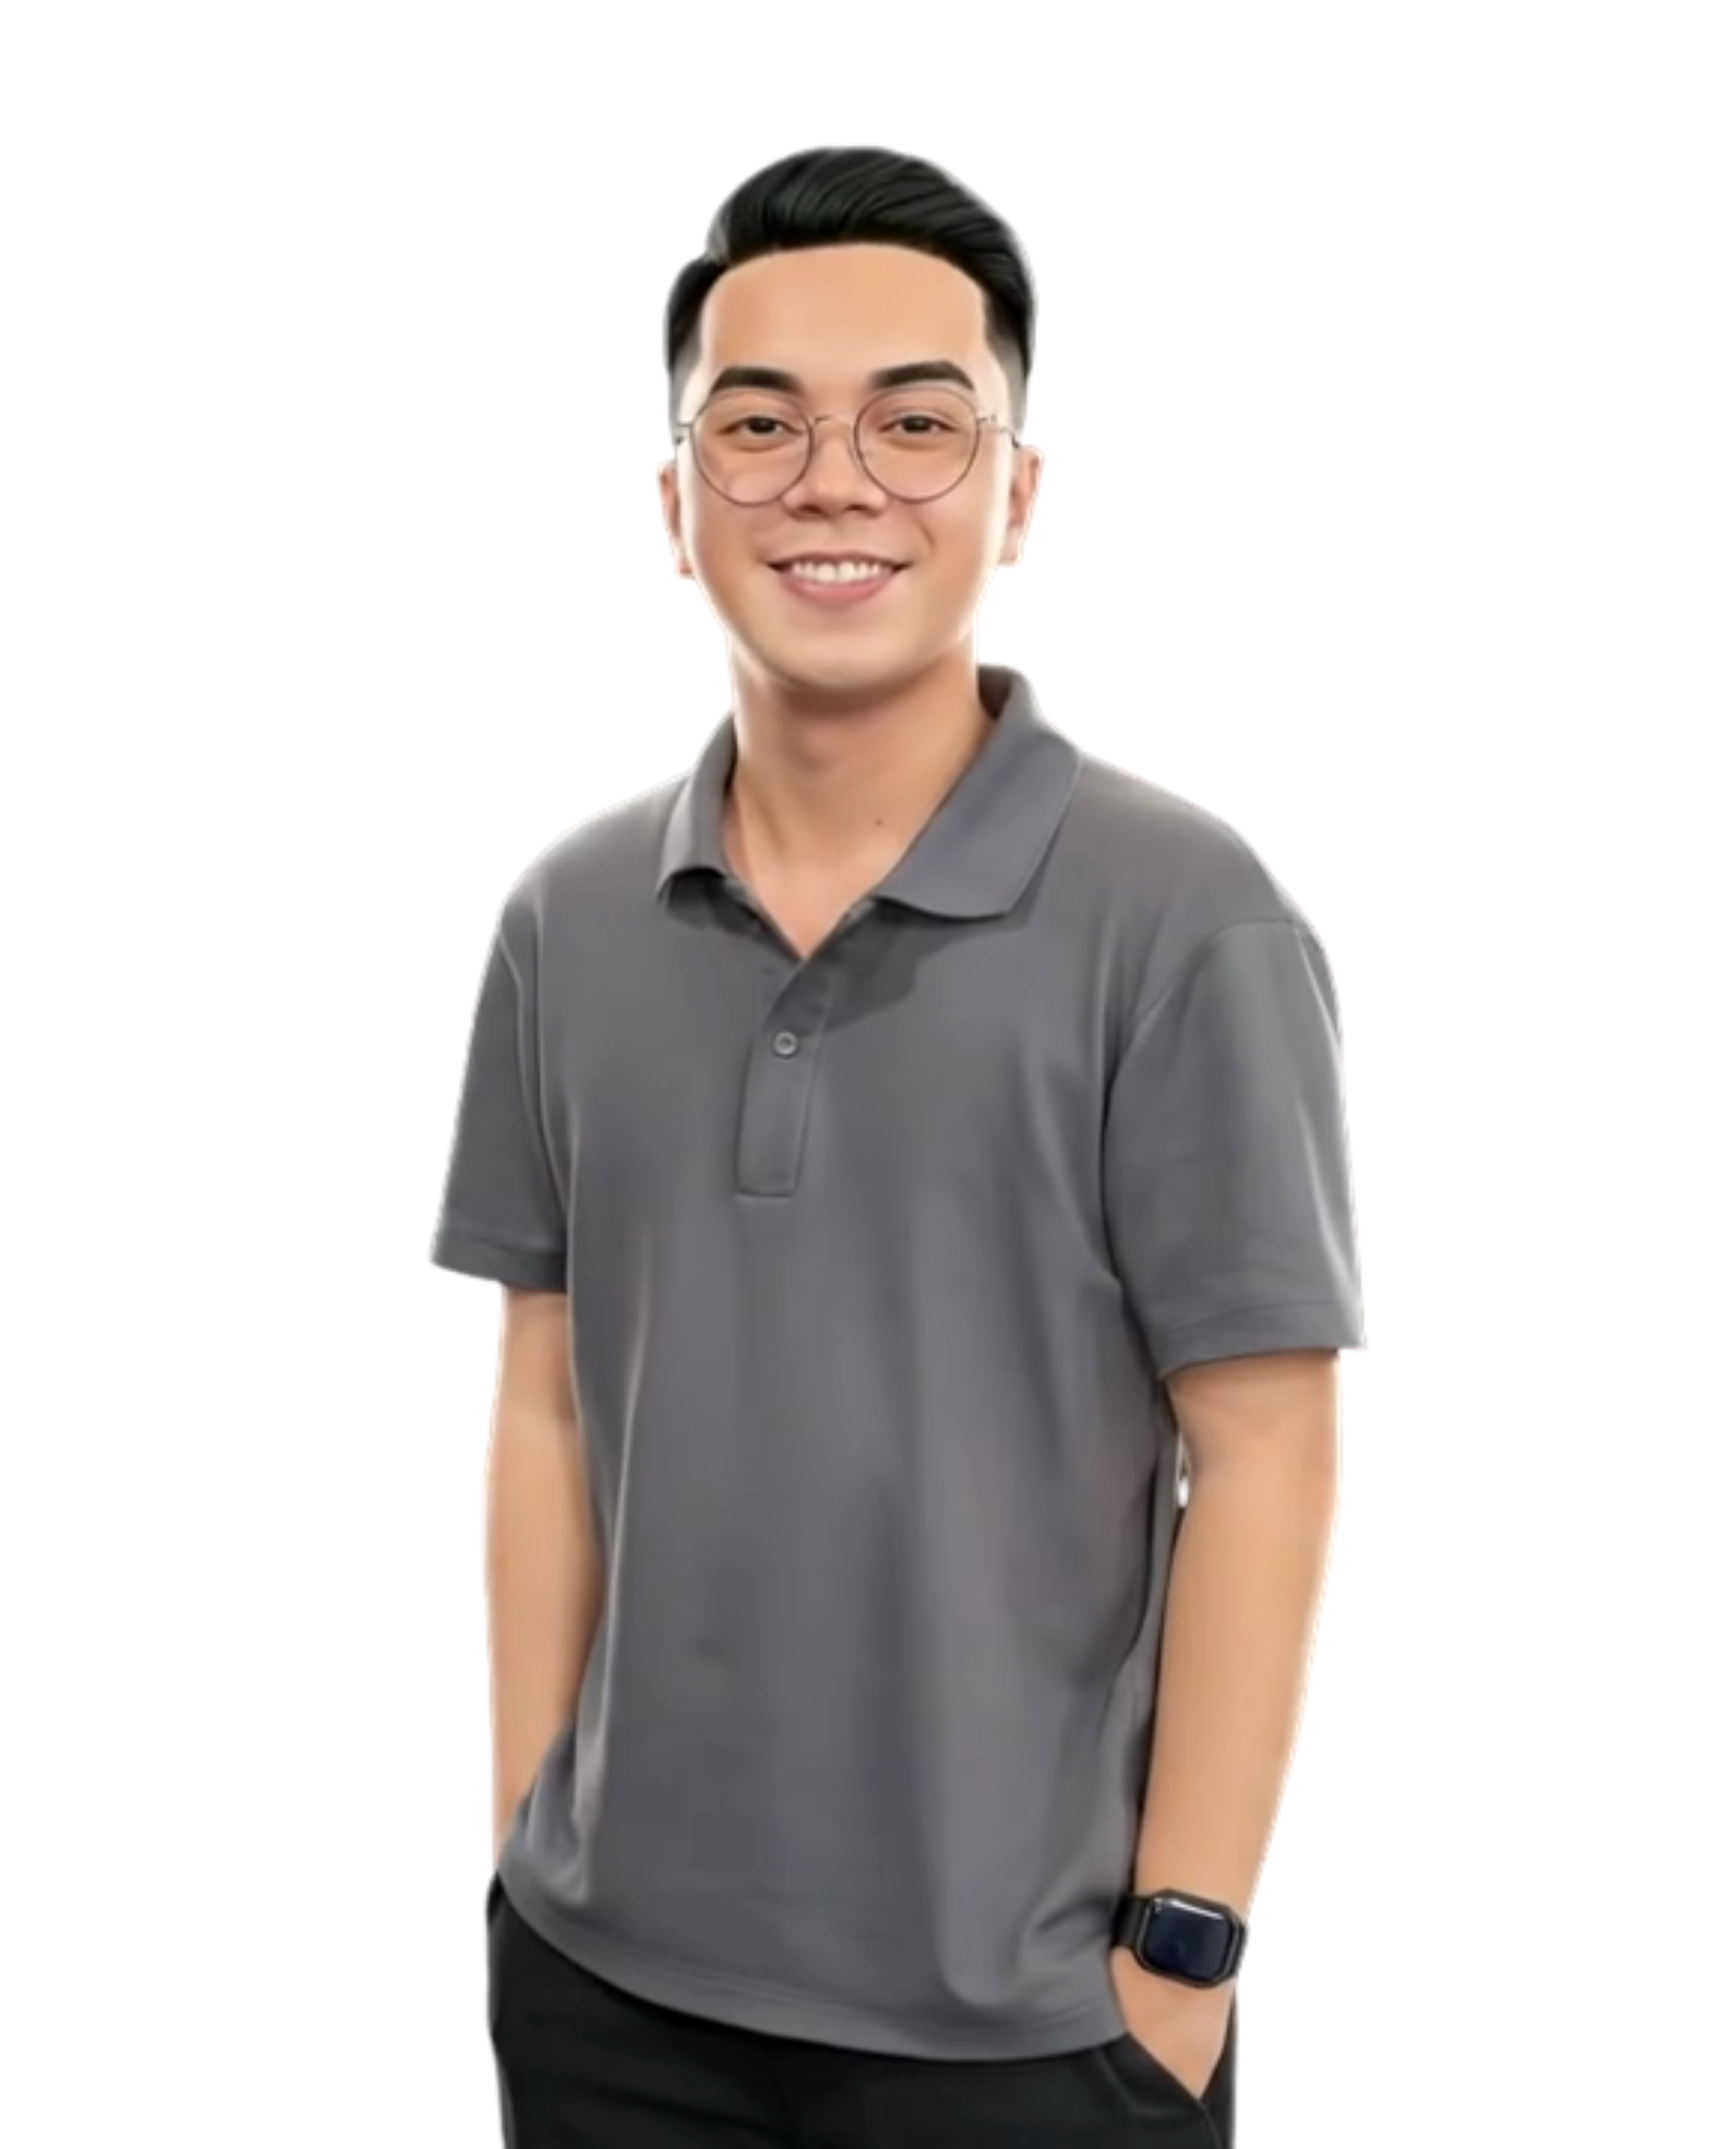
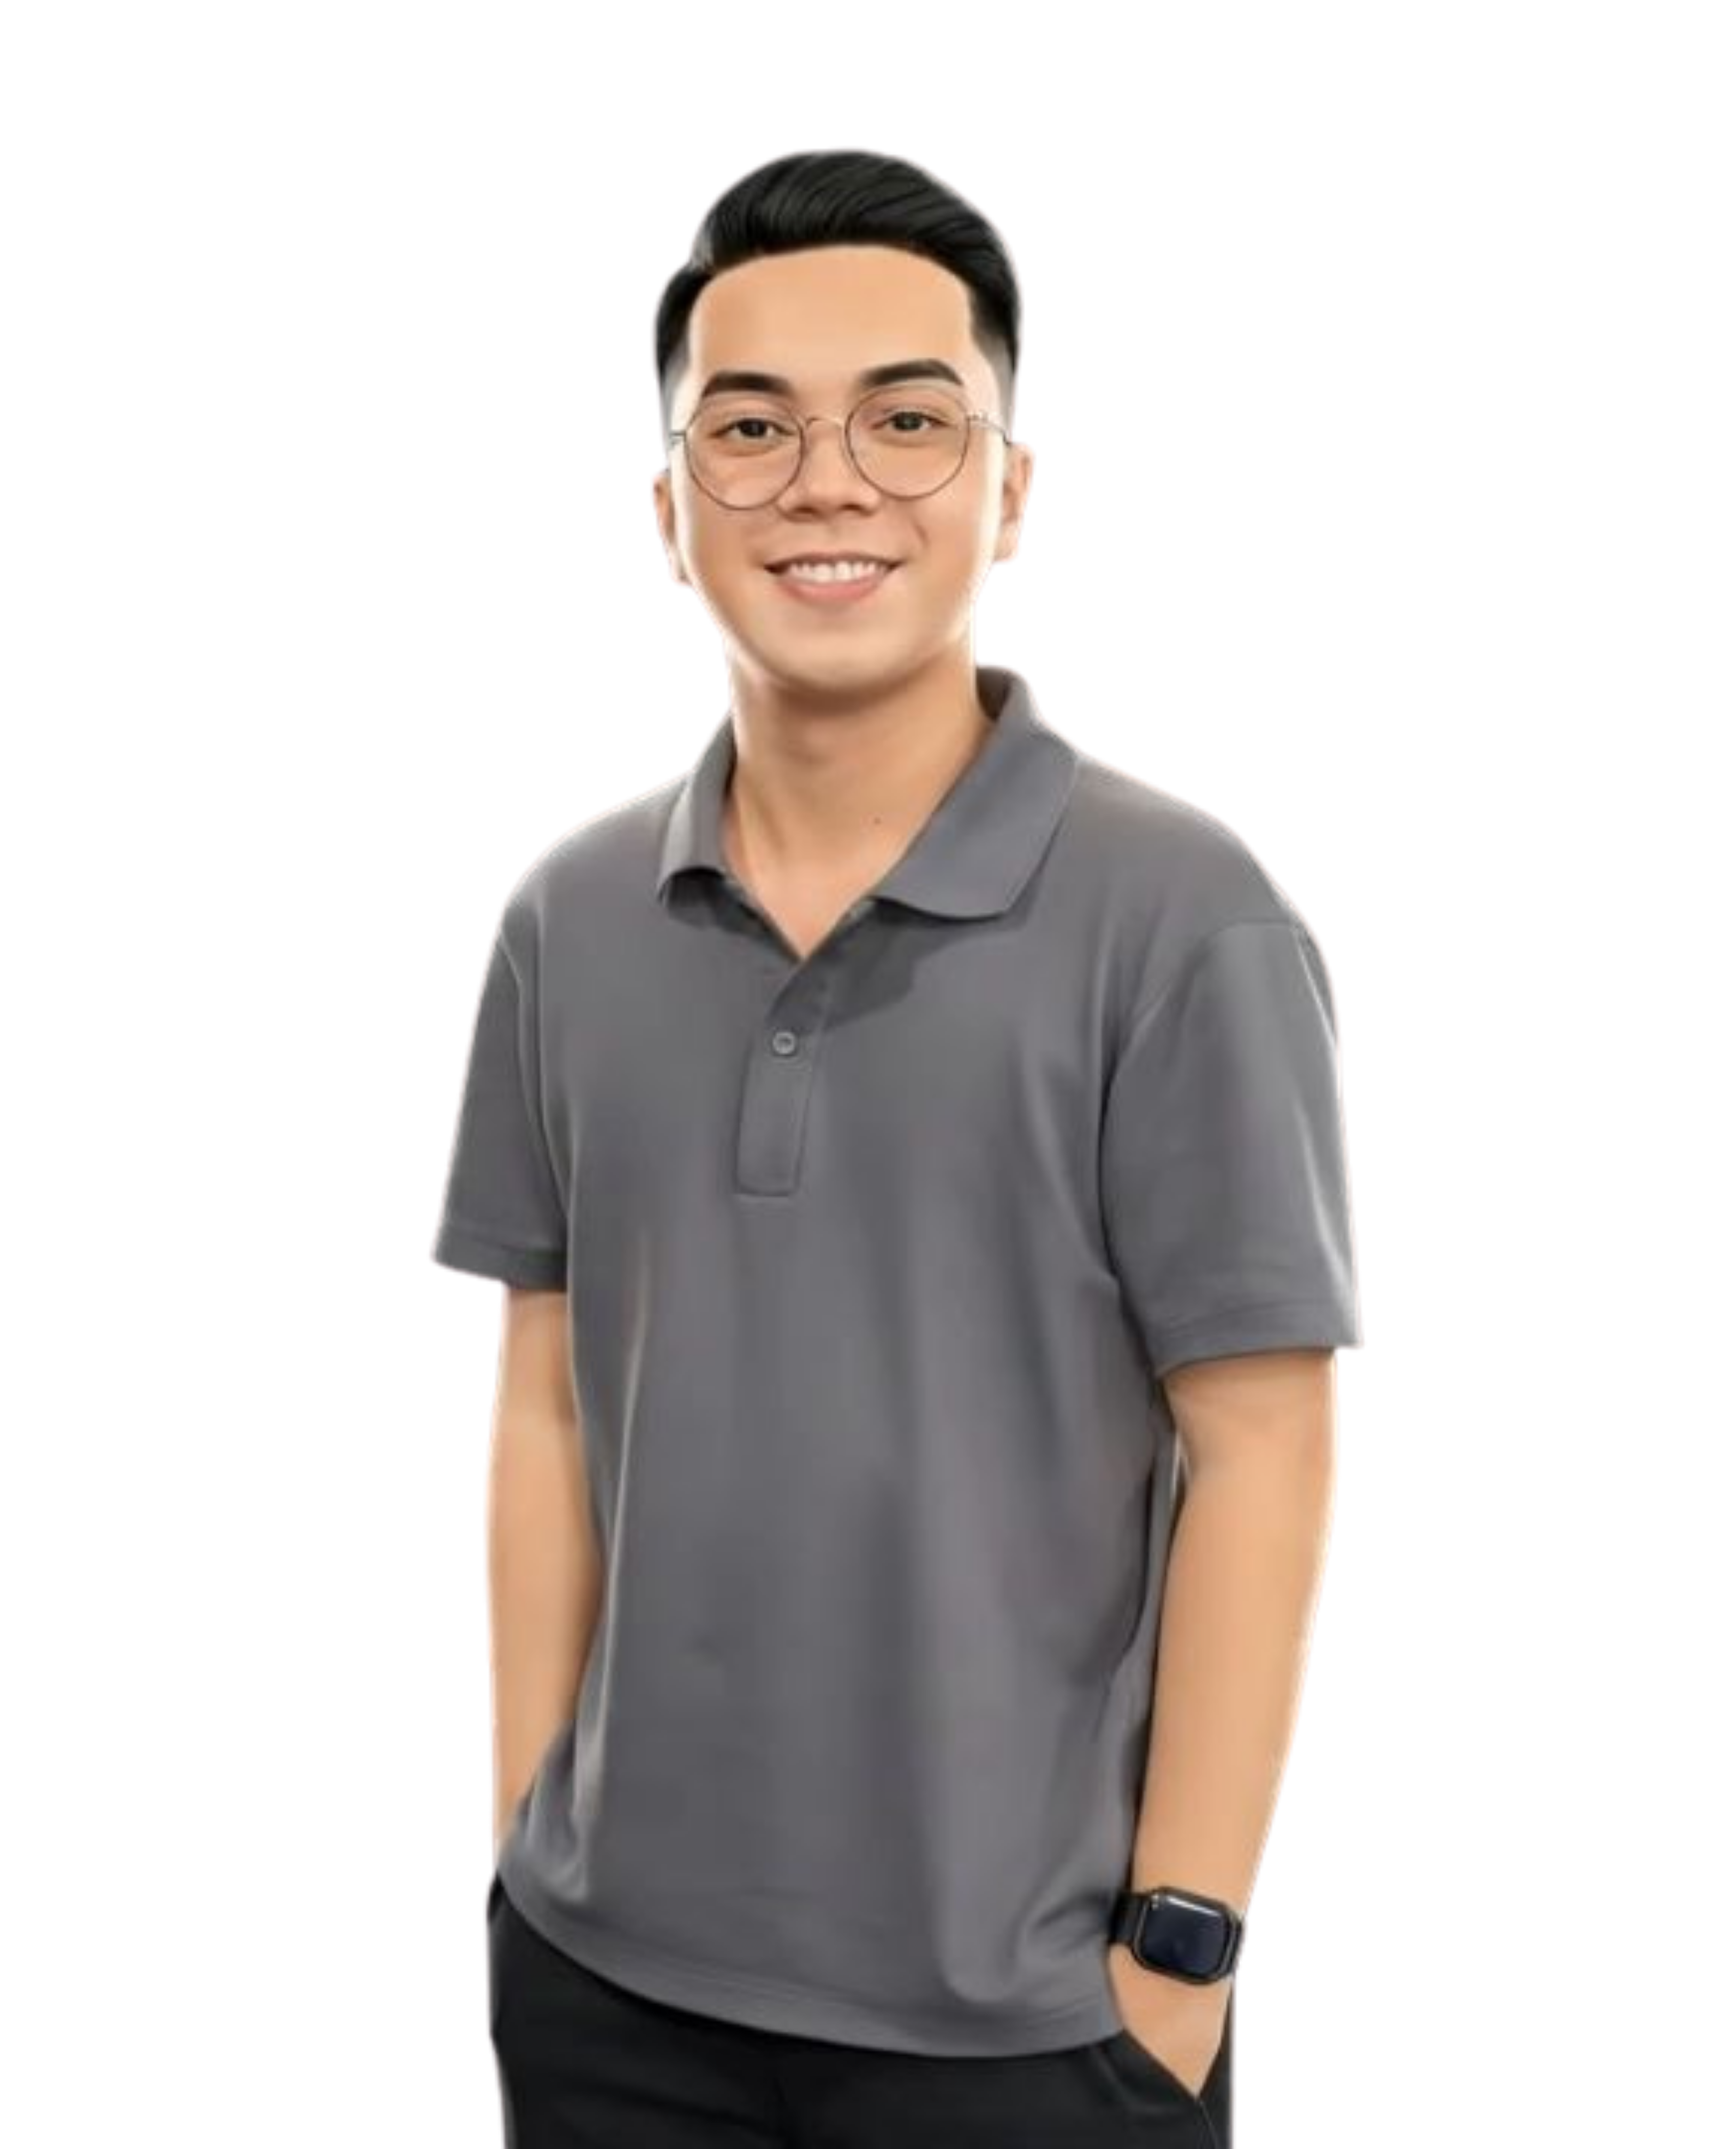
Imeplement More Frames

diff --git a/sections/Hero.tsx b/sections/Hero.tsx
@@ -15,6 +15,39 @@ const avatarTransitionFrames = [
   "/images/avatar-transition/5.png",
   "/images/avatar-transition/6.png",
   "/images/avatar-transition/7.png",
+  "/images/avatar-transition/8.png",
+  "/images/avatar-transition/9.png",
+  "/images/avatar-transition/10.png",
+  "/images/avatar-transition/11.png",
+  "/images/avatar-transition/12.png",
+  "/images/avatar-transition/13.png",
+  "/images/avatar-transition/14.png",
+  "/images/avatar-transition/15.png",
+  "/images/avatar-transition/16.png",
+  "/images/avatar-transition/17.png",
+  "/images/avatar-transition/18.png",
+  "/images/avatar-transition/19.png",
+  "/images/avatar-transition/20.png",
+  "/images/avatar-transition/21.png",
+  "/images/avatar-transition/22.png",
+  "/images/avatar-transition/23.png",
+  "/images/avatar-transition/24.png",
+  "/images/avatar-transition/25.png",
+  "/images/avatar-transition/26.png",
+  "/images/avatar-transition/27.png",
+  "/images/avatar-transition/28.png",
+  "/images/avatar-transition/29.png",
+  "/images/avatar-transition/30.png",
+  "/images/avatar-transition/31.png",
+  "/images/avatar-transition/32.png",
+  "/images/avatar-transition/33.png",
+  "/images/avatar-transition/34.png",
+  "/images/avatar-transition/35.png",
+  "/images/avatar-transition/36.png",
+  "/images/avatar-transition/37.png",
+  "/images/avatar-transition/38.png",
+  "/images/avatar-transition/39.png",
+  "/images/avatar-transition/40.png",
   "/images/avatar-transition/end.png",
 ];
 
